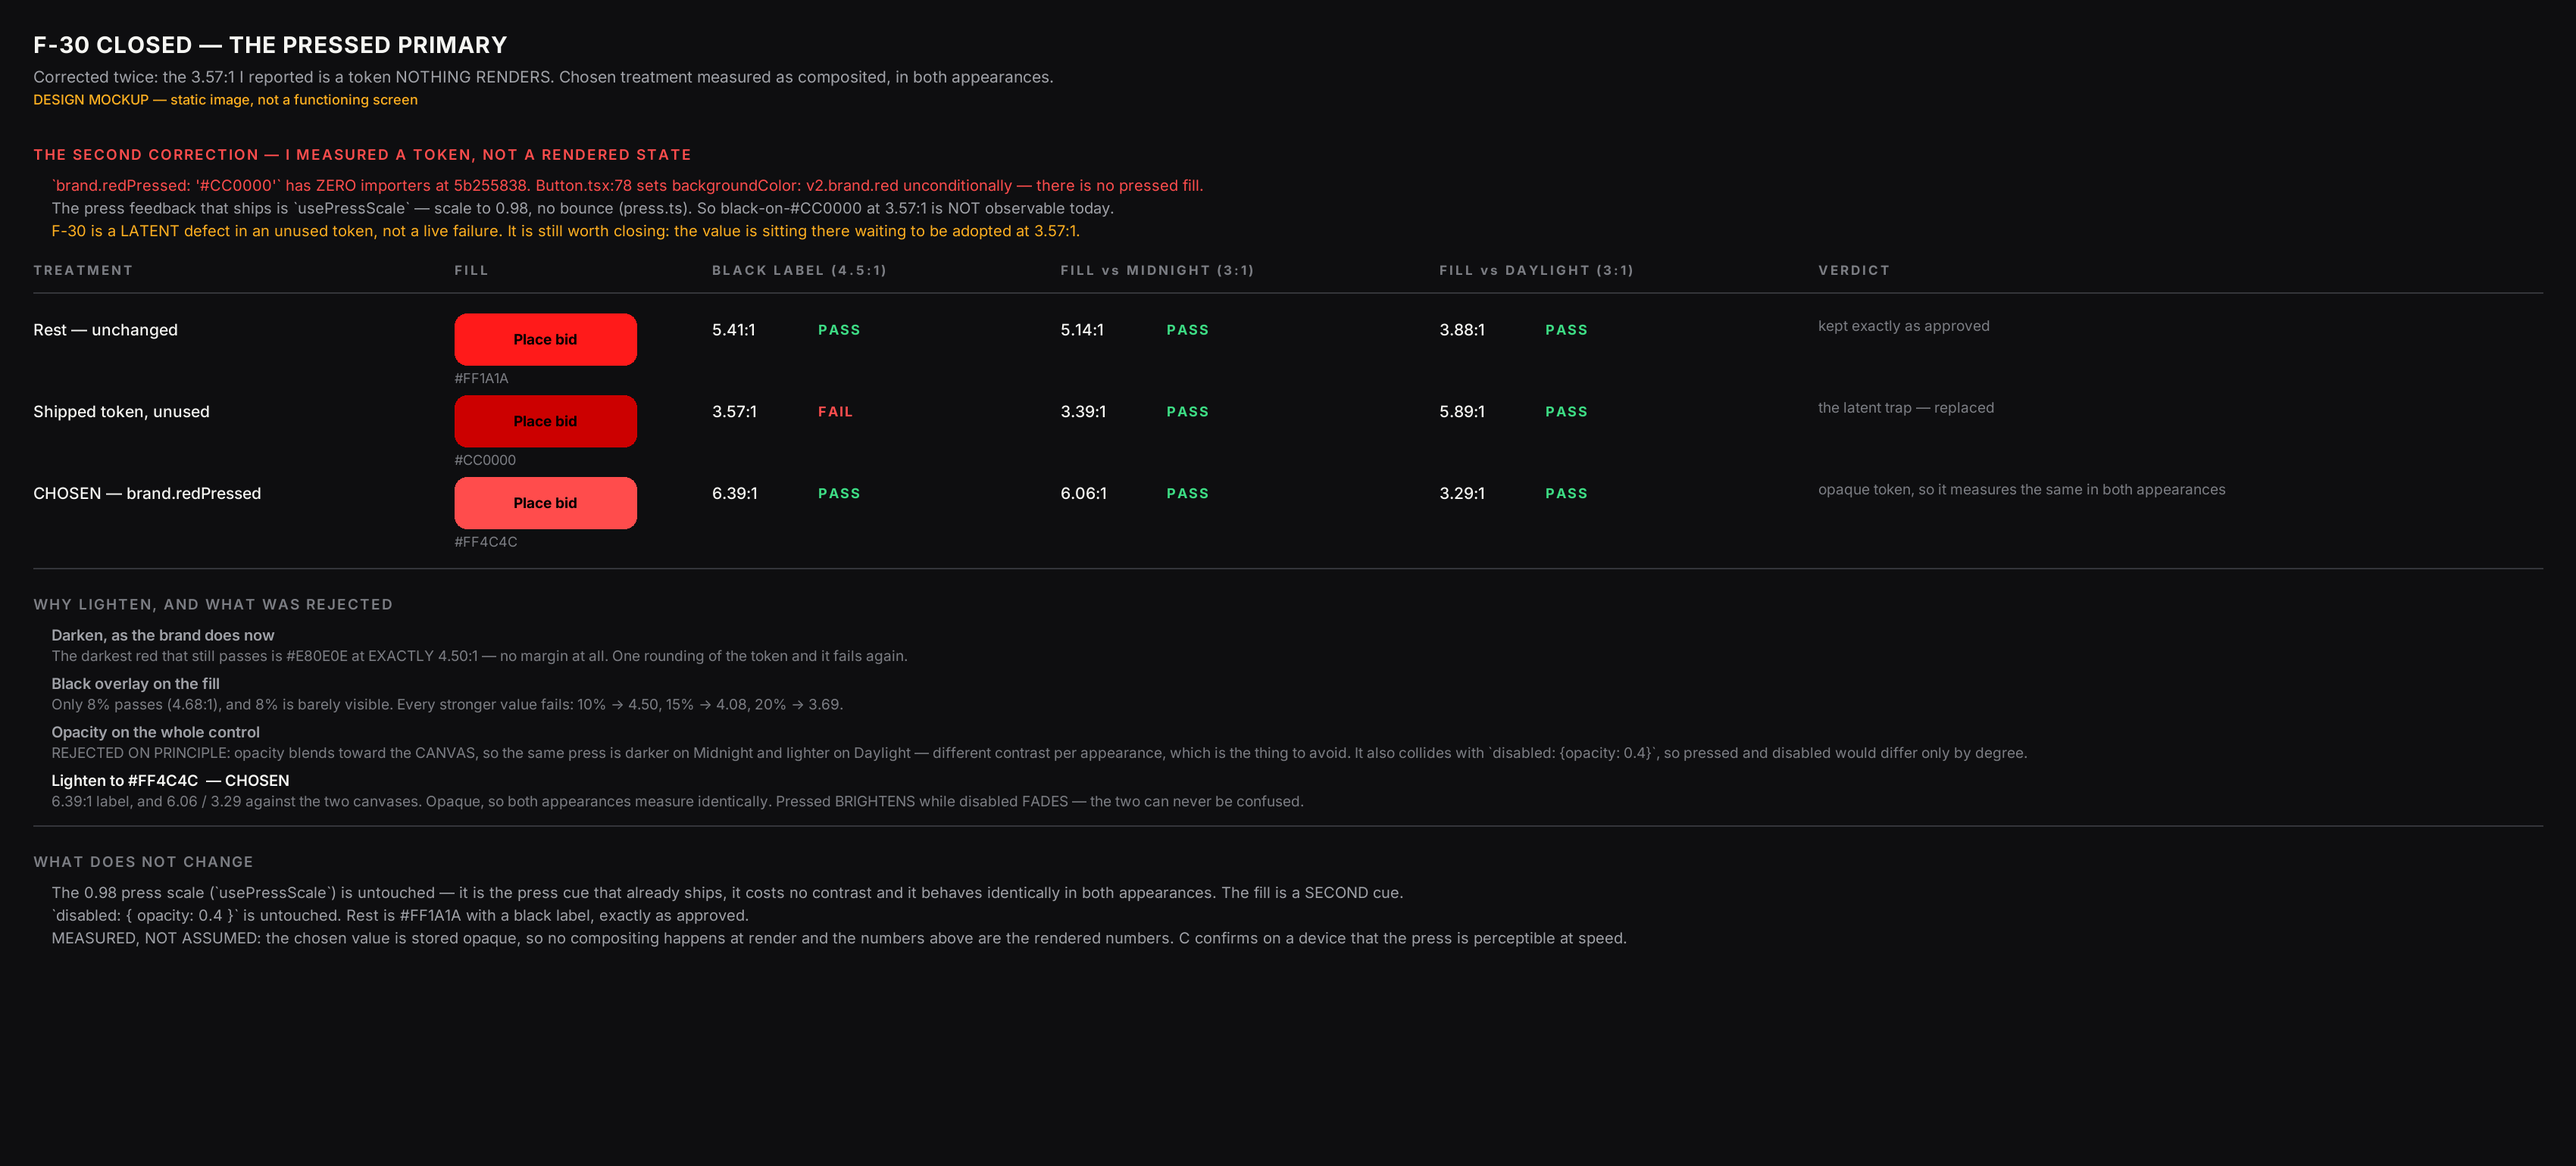
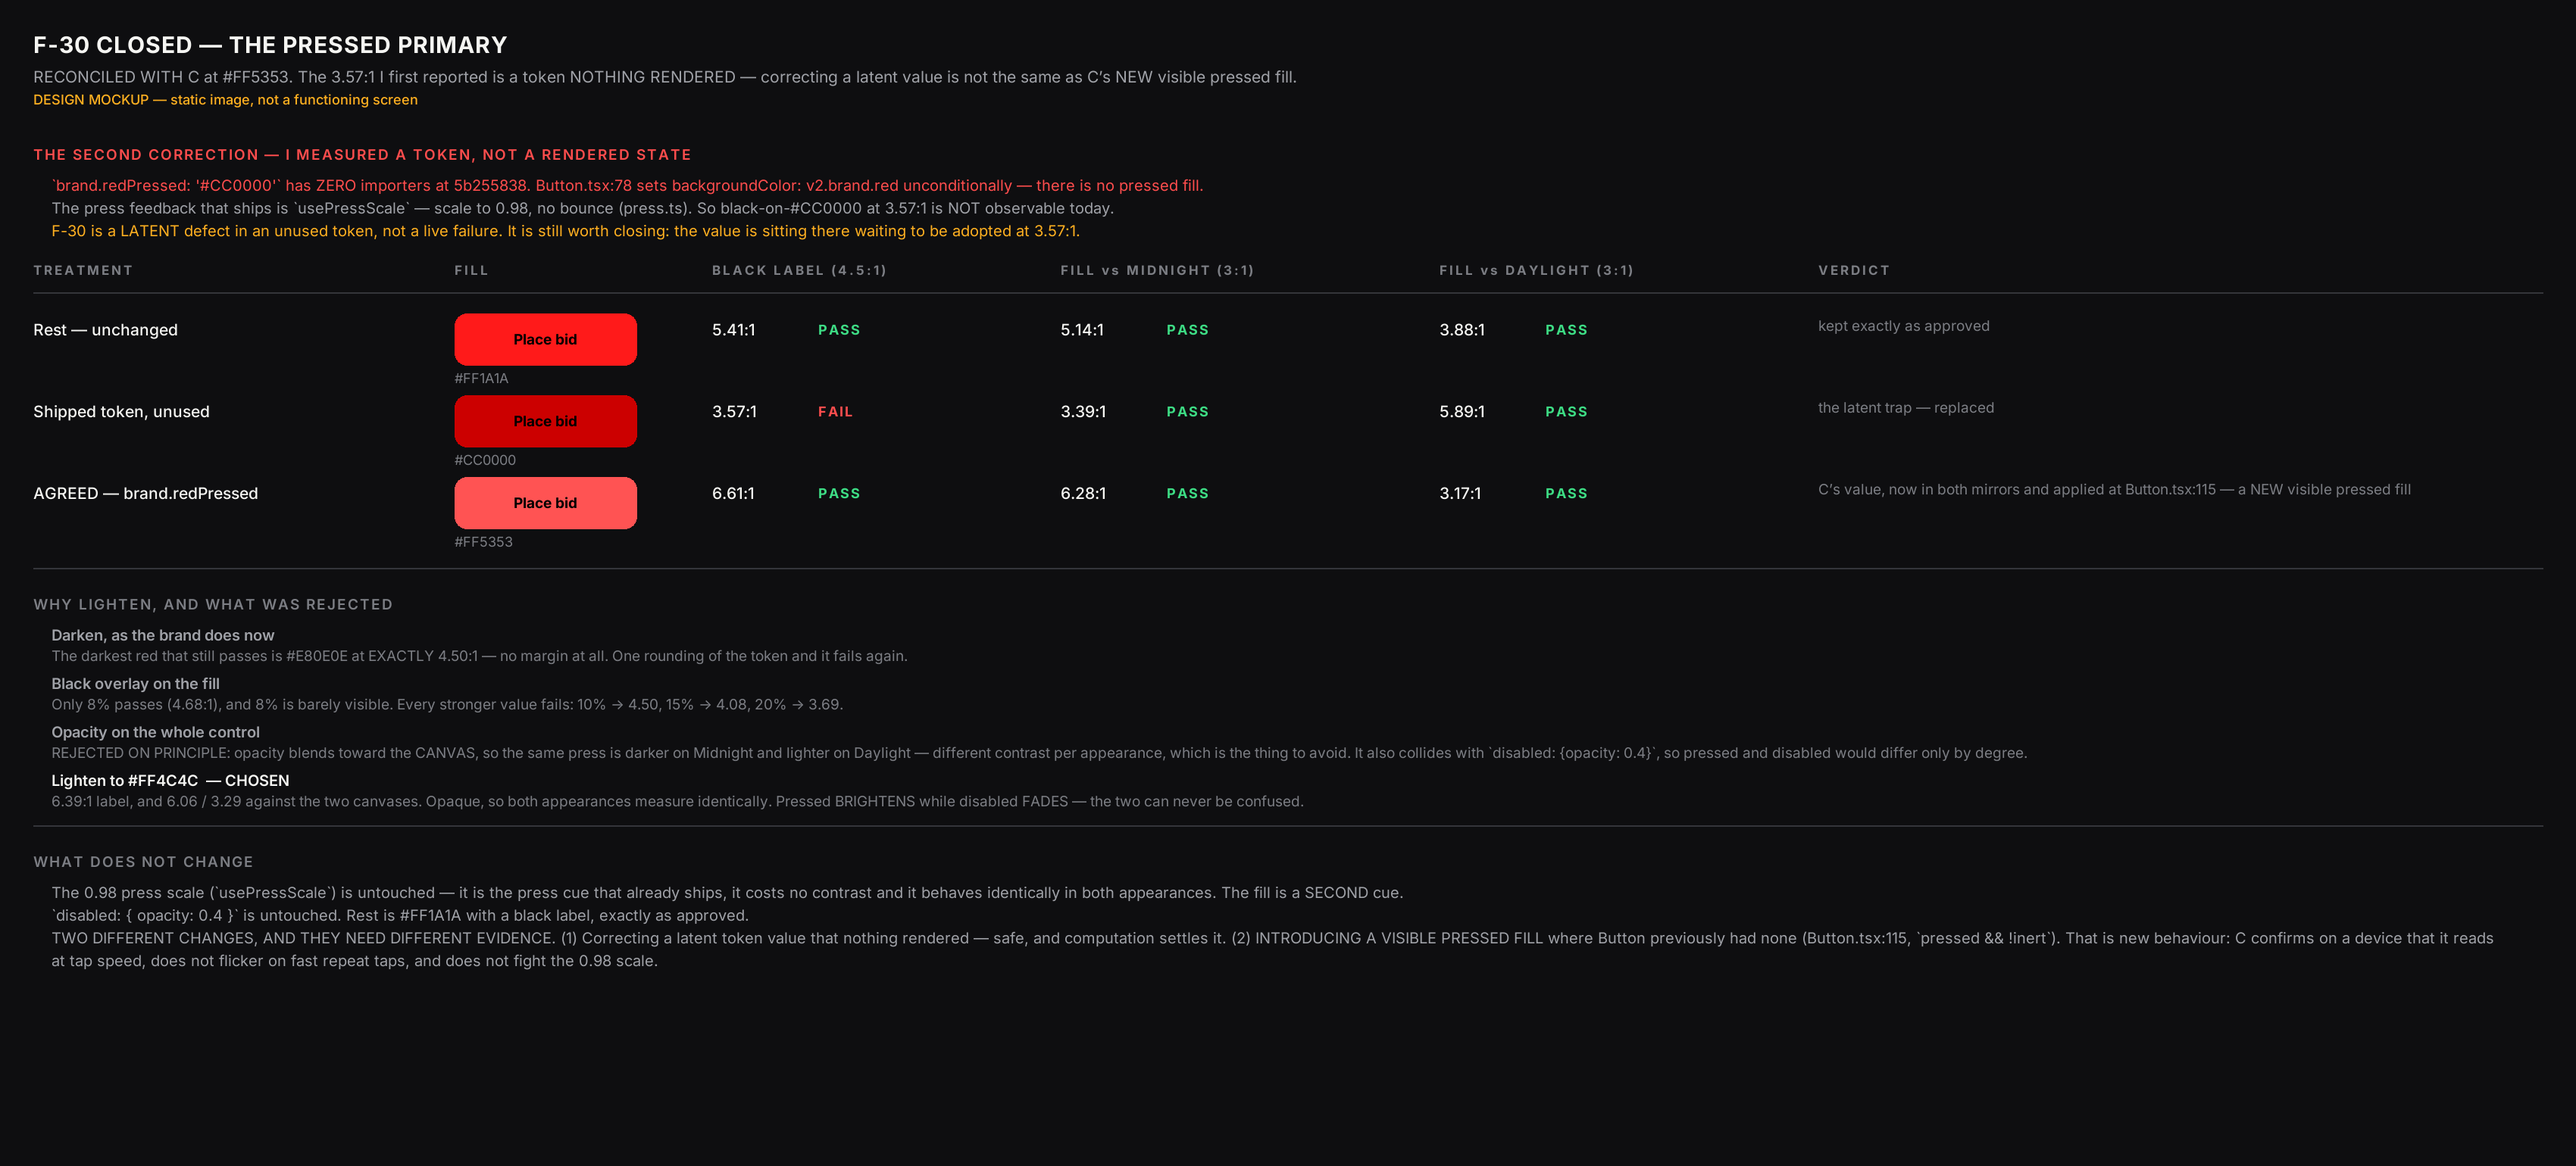
design(v3): reconcile with C @ 3f295bca and A's ruling; pressed agreed at #FF5353
CLOSED, verified in source rather than taken from summaries: B-1/B-2/B-3 and
B-5/F-22 (A PASSed the cells at 7e578ed5, record 53d4bcaf), F-17b/c, R-1, R-2
(bTotal gone from TransactionPanel), R-4 and F-29.

R-4 came back better than I proposed: C kept the Create review card and dropped
only its two money rows, so the card's review and validation purpose survives.
I had proposed deleting it outright.

MY CHECKOUT AMOUNT-SOURCE CONDITION IS SUPERSEDED, and the replacement is
better. A and C resolved it by DELETION: walking the states, no state is both
valid and non-duplicate, so the sticky Total never renders and
labelCarriesAmount goes with it. The itemised Total row stays.

PRESSED COLOUR AGREED AT C'S #FF5353. Mine was #FF4C4C. Both clear every
threshold; C's is better on label legibility (6.61 vs 6.39) and press
distinctness (1.222 vs 1.180), slightly tighter on Daylight fill-vs-canvas
(3.17 vs 3.29), and it is already in Button.tsx and both mirrors. Churning
implemented code for 0.12 of margin on a criterion that already passes is
drift. My boards are redrawn at #FF5353.

And the distinction the owner asked for: correcting a latent token (zero
importers, nothing rendered at 3.57:1) is NOT the same change as introducing a
visible pressed fill at Button.tsx:115. The first is settled by computation;
the second is new behaviour and needs device confirmation.

SOURCE REVIEW of C's branch for hard-coded colours — eight that break in
[…]

diff --git a/docs/product-v3/V3_RECONCILED_COVERAGE_20260924.md b/docs/product-v3/V3_RECONCILED_COVERAGE_20260924.md
@@ -1,0 +1,88 @@
+# V3 reconciled coverage — shared with C
+
+**B · 2026-09-24.** Reconciled against **C's branch `v3/midnight-app` @ `3f295bca`** and **A's decision
+record** `docs/release/V3_REVIEW_NOTES_20260924.md` (commit `53d4bcaf`). Every claim below was read in
+source, not taken from a summary.
+
+> **Evidence labels used here.** *Source* = read from code or computed. *Rendered* = a screen actually drawn
+> and looked at. *Device* = run on hardware. **Nothing in this document is device evidence, and the
+> appearance audit is source only.**
+
+---
+
+## 1 · Closed — removed from the blocker list
+
+| Was | Now | Evidence |
+|---|---|---|
+| **B-1** buyer `expired` · **B-2** buyer `reversed` · **B-3** seller `reversed` | **CLOSED** | A reviewed the cells at `7e578ed5` and **PASSed** them (`53d4bcaf`). `refundLine` implements the full/partial/recorded/null rule; the receive-screen blocks read status only; `reversed`/`released` never render for the buyer |
+| **B-5 / F-22** buyer review deadline | **CLOSED** | `buyerReviewDeadlineLine(auto_release_at)` — server timestamp or nothing. A ruled **yes** to `payout_hold_until`, only when `payout_review_status === 'held'` and non-null, worded as a hold, never derived, no countdown |
+| **F-17b / F-17c** | **CLOSED** | Superseded by the cells above |
+| **My checkout amount-source condition** | **SUPERSEDED** | A + C resolved it by **deletion**, which is better than my rule: walking the states, *no state is both valid and non-duplicate*, so the sticky Total never renders and `labelCarriesAmount` goes with it. The itemised Total row stays as the buyer's reference |
+| **F-30** pressed primary | **CLOSED at `#FF5353`** | See §2 |
+| **R-1** bid reference in bid units | **CLOSED** | Owner direction; implemented |
+| **R-2** listing total twice | **CLOSED** | Verified in source: `bTotal` is gone from `TransactionPanel.tsx` |
+| **R-4** Create duplication | **CLOSED — and better than my proposal** | C kept the review card and dropped only its two money rows. The card's review and validation purpose survives; I had proposed deleting it outright |
+| **F-29** recovery only when it exists | **CLOSED, with one gap — see R-5** | `ListingDetailScreen.tsx:739-740` gates the recovery on `bidAvailable` |
+
+---
+
+## 2 · The pressed colour — reconciled at C's value
+
+| | Black label (4.5:1) | vs Midnight (3:1) | vs Daylight (3:1) | Distinctness |
+|---|---|---|---|---|
+| B proposed `#FF4C4C` (22% white) | 6.39:1 | 6.06:1 | **3.29:1** | 1.180 |
+| **C implemented `#FF5353` (25% white) — AGREED** | **6.61:1** | **6.28:1** | 3.17:1 | **1.222** |
+
+Both clear every threshold. **C's is better on the two that matter most** — label legibility and press
+perceptibility — and it is already in `Button.tsx:115` and **both token mirrors**. Churning implemented code
+for 0.12 of margin on a criterion that already passes would be drift. **My boards are redrawn at `#FF5353`.**
+
+### The distinction the owner asked for
+
+These are **two different changes needing two different kinds of evidence**:
+
+1. **Correcting a latent token.** `brand.redPressed: #CC0000` had **zero importers**; `Button.tsx` set the
+   fill unconditionally. Nothing rendered at 3.57:1. Computation settles this one.
+2. **Introducing a visible pressed fill.** `Button.tsx:115` now applies `redPressed` on `pressed && !inert`.
+   **That is new behaviour**, and computation cannot settle it: **C confirms on a device** that it reads at
+   tap speed, does not flicker on fast repeat taps, and does not fight the 0.98 scale.
+
+---
+
+## 3 · Open — every remaining item, assigned
+
+### C — blocking the both-appearances build
+
+| # | Item | Detail |
+|---|---|---|
+| **A-1** | **`AdaptiveDock` is not themed** | `makeStyles(palette)` is called and the **icons** read `palette.text.*`, but four colour values inside that factory were never converted. On Daylight: dock surface composites to `#545456`, **active tab 2.59:1**, **inactive 1.43:1**. The worst kind of half-theme |
+| **A-2** | Dock selected capsule | `rgba(255,255,255,0.14)` → **1.44:1 Daylight, 1.47:1 Midnight — fails in both**. Selection is also carried by the ring and label colour, so it is a supporting cue, not the sole one — but it carries nothing as it stands |
+| **A-3** | `Sheet.tsx:135` grabber | `rgba(255,255,255,0.30)` → **1.03:1** on a light panel. Invisible |
+| **A-4** | `StatCardStrip.tsx:65` | `rgba(255,255,255,0.06)` and **no palette import at all** |
+| **A-5** | `EventMedia.tsx:309` | The **image fallback initial**, `rgba(255,255,255,0.20)` on `surface.plate` → **~1.02:1**. This is one of the fallbacks the owner named |
+| **A-6** | `TransferStatusBadge.tsx:6-12` | **Seven** hard-coded colours in a component with **zero importers** — F-30's shape exactly. Convert it or delete it; do not wire it as it stands |
+| **A-7** | `PlatformInstructions.tsx:186` | A **second amber** (`#FBBF24`) beside `status.warning` `#FFB020`. Drift, not a contrast failure |
+| **R-5** | **`bidAvailable` misses one case** | `:739` re-derives availability locally instead of asking the resolver. With `reservedByMe` it evaluates **true**, but `listingActions` returns `continue_reservation` **with no secondary** — so the copy offers a bid the screen does not have. Add `&& !reservedByMe`, or better, read `place_bid` off the resolved actions |
+| **F-28** | Not yet implemented | `transferState.ts:171` still carries the `StateBlock` title *"Marked as sent"* beside the badge |
+| **F-27** | Status unclear | `fetchData(` went from 5 call sites to 8. **C states which failure paths now refetch** — and keeps this functional change separate from copy-only work |
+
+**Correct as literals, no action:** avatar and upload overlays, `IconButton.onArt`, the `EventMedia` scrim
+gradients — all artwork context, which does not invert. `ProofImageViewer.tsx:193`'s close button is fine
+**provided the viewer backdrop stays dark in both**; C confirms.
+
+### B — mine
+
+Remaining light appearances: **Create · My listings · Send/receive transfer · Bids tab · Auth (7) · Tickets ·
+Profile · Settings hub + 7 sub-surfaces · Dispute/report · 45 dialogs · 4 state screens · error boundary ·
+outbid notice · status banner.** The token set is complete, so these are re-renders, not new decisions.
+Plus: review C's screens as packages land.
+
+### Owner — the one item needing you
+
+**Authorisation for the both-appearances candidate build.** Your standing constraint is that a new build
+requires it explicitly; nothing A, B or C does substitutes. Everything else above is ours.
+
+### Worth resolving before a device session, not after
+
+**D-8** — whether the Tickets RPC migration is applied decides whether that tab shows the empty state or the
+error state. Without knowing, a device result there cannot be interpreted.
